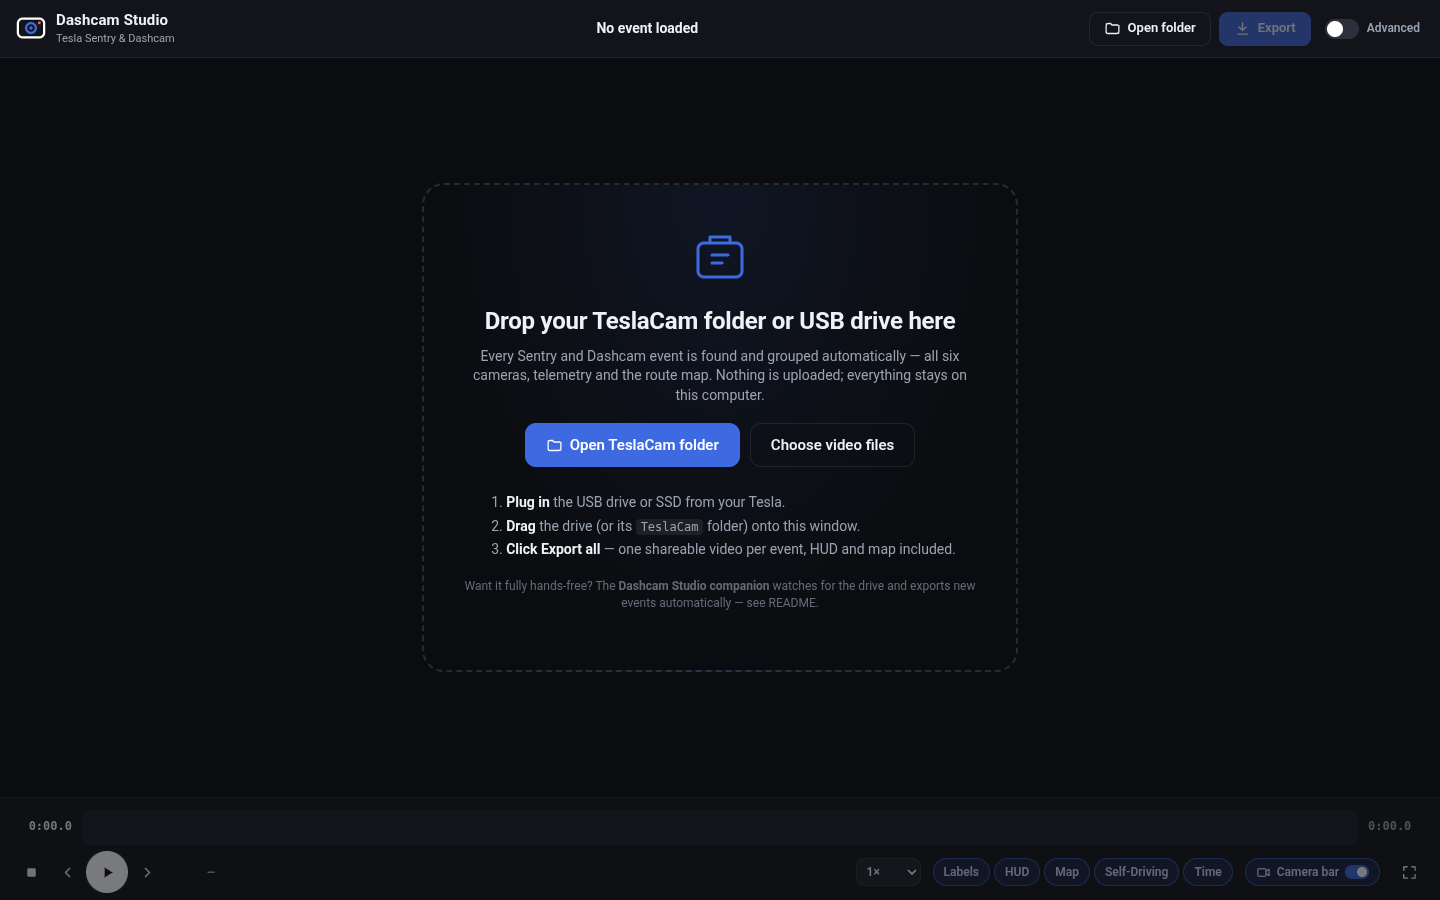
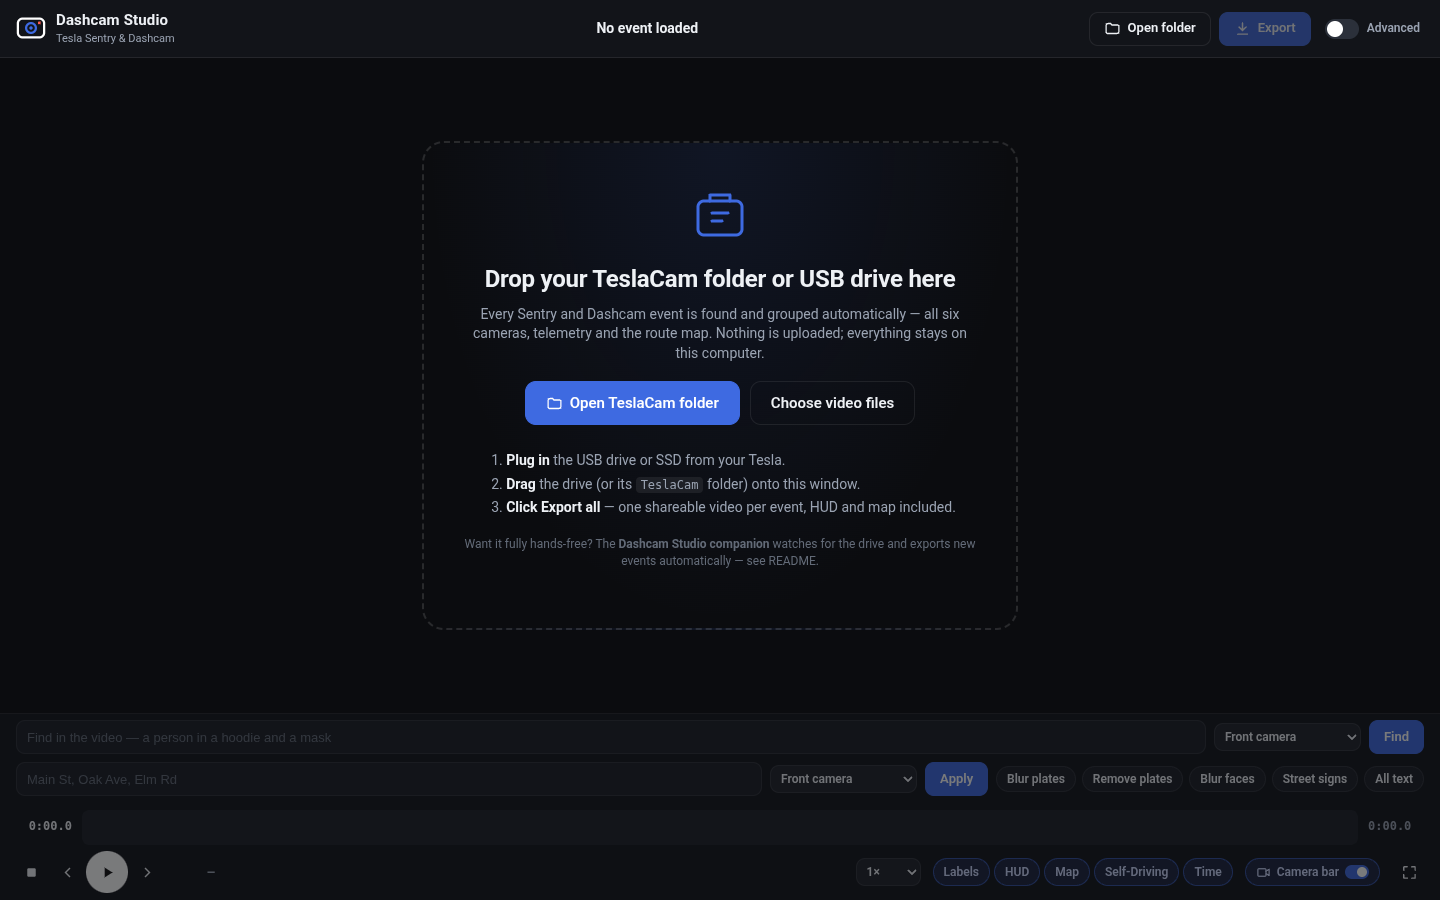
README screenshots: Find and Redact bars in every shot, new Find (timeline matches) and Redact shots; neutral redact placeholder

diff --git a/index.html b/index.html
@@ -112,7 +112,7 @@
     <div class="find-status" id="findStatus" hidden></div>
     <div class="find-hits" id="findHits"></div>
     <div class="redact-bar">
-      <input id="redactQuery" type="text" placeholder="Kato Rd, Fremont Blvd, Cushing Pkwy, Page Ave" autocomplete="off" spellcheck="false">
+      <input id="redactQuery" type="text" placeholder="Main St, Oak Ave, Elm Rd" autocomplete="off" spellcheck="false">
       <select id="redactCam" class="select small" title="Which cameras to redact">
         <option value="front">Front camera</option>
         <option value="around">Front, sides, and rear</option>

diff --git a/README.md b/README.md
@@ -18,7 +18,7 @@ A Tesla dashcam and Sentry viewer that runs entirely in your browser. Drop in yo
 
 ![Full screen: front camera at golden hour with the telemetry HUD and Self-Driving badge](screenshots/photo-hero-fullscreen.png)
 
-![Six-camera grid with HUD, route map and Self-Driving badge: left blinker on while a Cybercab overtakes, before the lane change](screenshots/photo-grid.png)
+![Six-camera grid with HUD, route map and Self-Driving badge, with the Find and Redact bars under the video: left blinker on while a Cybercab overtakes, before the lane change](screenshots/photo-grid.png)
 
 ![Sentry event at golden hour: a hooded passer-by on the right repeater](screenshots/photo-sentry.png)
 
@@ -26,6 +26,12 @@ A Tesla dashcam and Sentry viewer that runs entirely in your browser. Drop in yo
 <summary>More screenshots</summary>
 
 ![One camera enlarged, with the floating camera bar](screenshots/photo-focus-camera-bar.png)
+
+![Find in the video: "a cyclist in the bike lane" returns two matches, marked in yellow on the timeline, with a gold box on the front camera](screenshots/photo-find.png)
+*Find in the video: type what you're looking for. Matches show as chips and yellow marks on the timeline.*
+
+![Redact in use: "blur all text" applied to the front camera, with Show blur on](screenshots/photo-redact.png)
+*Redact: one click blurs text, plates or faces on the picture. Export uses the same blur.*
 
 ![Multi-section trim: three labelled sections on the full-width timeline (Advanced)](screenshots/photo-sections.png)
 
